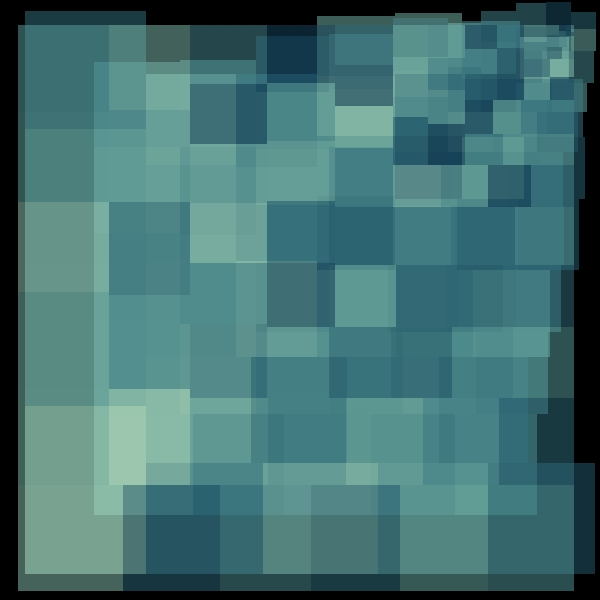
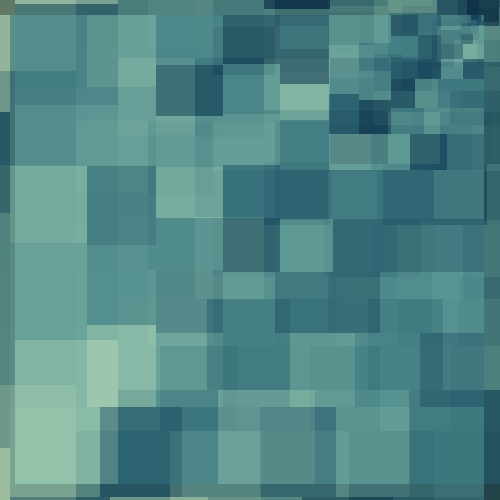
update boxes

diff --git a/README.md b/README.md
@@ -23,13 +23,11 @@ In the meantime, the following colour palette packages are used for the followin
 
 - [{rcartocolor}](https://jakubnowosad.com/rcartocolor/)
   - `attraction()`: `main_col` is either a single colour or the name of a colour palette from {rcartocolor}
-  - `boxes()`: `col_palette` is the name of a colour palette from {rcartocolor}
   - `bubbles()`: `col_palette` is the name of a colour palette from {rcartocolor}
   - `circles()`: `col_palette` is the name of a colour palette from {rcartocolor}
   - `dots()`: `col_palette` is the name of a colour palette from {rcartocolor}
   - `fading()`: `col_palette` is the name of a colour palette from {rcartocolor}
   - `rectangles()`: `col_palette` is the name of a colour palette from {rcartocolor}
-  - `stripes()`: `col_palette` is the name of a colour palette from {rcartocolor}
 
 Please use the documentation for these packages to find suitable colour palette names, or run the following code:
 
@@ -75,9 +73,9 @@ blending(n = 100, down = "#ba1141", up = "#003366", s = 1234)
 The `boxes()` function produces generative art of many boxes.
 
 ``` r
-boxes(n=100, perc=0.1, col_palette="DarkMint", bg_col="black", s=1234)
-boxes(n=20, perc=0.1, col_palette="DarkMint", bg_col="black", s=1234)
-boxes(n=100, perc=0.5, col_palette="Magenta", bg_col="black", s=1234)
+boxes(n=100, perc=0.1, col_palette=rev(rcartocolor::carto_pal(n = 7, "DarkMint")), bg_col="black", s=1234)
+boxes(n=20, perc=0.1, col_palette=rev(rcartocolor::carto_pal(n = 7, "DarkMint")), bg_col="black", s=1234)
+boxes(n=100, perc=0.5, col_palette=rev(rcartocolor::carto_pal(n = 7, "Magenta")), bg_col="black", s=1234)
 ```
 <p align="center">
 <img src="https://github.com/nrennie/aRt/blob/main/man/figures/boxes_n100_p1.jpeg?raw=true" width="30%">
@@ -354,22 +352,6 @@ static(perc=0.3, n=500, s=1234)
 The `streams()` function produces generative art consisting of stream charts.
 
 ``` r
-stripes(perc=0, n=3, col_palette = "TealGrn", alpha = 1, s=1234)
-stripes(perc=0.5, n=3, col_palette = "TealGrn", alpha = 1, s=1234)
-stripes(perc=1, n=3, col_palette = "TealGrn", alpha = 1, s=1234)
-```
-<p align="center">
-<img src="https://github.com/nrennie/aRt/blob/main/man/figures/stripes_p00_n3.jpeg?raw=true" width="30%">
-<img src="https://github.com/nrennie/aRt/blob/main/man/figures/stripes_p50_n3.jpeg?raw=true" width="30%">
-<img src="https://github.com/nrennie/aRt/blob/main/man/figures/stripes_p100_n3.jpeg?raw=true" width="30%">
-</p>
-
-
-### stripes
-
-The `stripes()` function produces generative art consisting of rows of vertical stripes.
-
-``` r
 streams(bg_col = "white", 
         line_col = "white",
         fill_col = c("#5F4690", "#1D6996", "#38A6A5", "#0F8554",
@@ -394,6 +376,21 @@ streams(bg_col = "white",
 <img src="https://github.com/nrennie/aRt/blob/main/man/figures/streams3.jpeg?raw=true" width="30%">
 </p>
 
+### stripes
+
+The `stripes()` function produces generative art consisting of rows of vertical stripes.
+
+
+``` r
+stripes(perc=0, n=3, col_palette = rcartocolor::carto_pal(n = 7, "TealGrn"), alpha = 1, s=1234)
+stripes(perc=0.5, n=3, col_palette = rcartocolor::carto_pal(n = 7, "TealGrn"), alpha = 1, s=1234)
+stripes(perc=1, n=3, col_palette = rcartocolor::carto_pal(n = 7, "TealGrn"), alpha = 1, s=1234)
+```
+<p align="center">
+<img src="https://github.com/nrennie/aRt/blob/main/man/figures/stripes_p00_n3.jpeg?raw=true" width="30%">
+<img src="https://github.com/nrennie/aRt/blob/main/man/figures/stripes_p50_n3.jpeg?raw=true" width="30%">
+<img src="https://github.com/nrennie/aRt/blob/main/man/figures/stripes_p100_n3.jpeg?raw=true" width="30%">
+</p>
 
 ### sunbursts
 

diff --git a/NEWS.md b/NEWS.md
@@ -3,6 +3,7 @@
 * add `streams()` function
 * Move {MetBrewer} to Suggests
 * Move {RColorBrewer} to Suggests
+* Functions take colour vectors instead of palette names as inputs
 
 ## aRt 1.1.9
 
